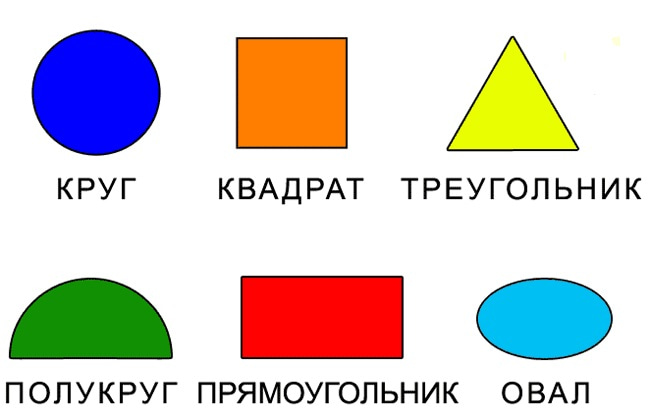
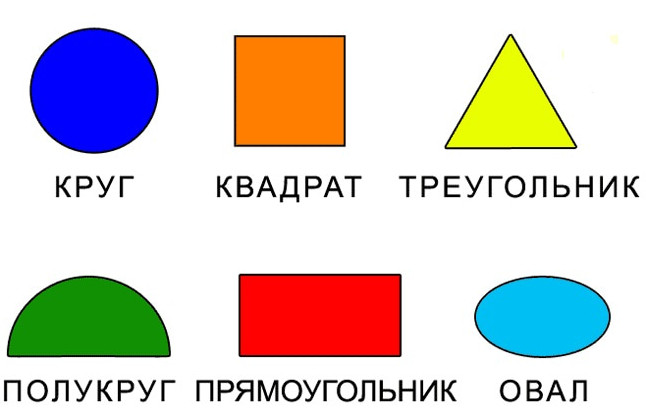
area commi

diff --git a/lesson4/homework_4/area.html b/lesson4/homework_4/area.html
@@ -20,7 +20,38 @@
         area href="URL"<br>
       /map</p>
     <p>Пример</p>
-    <img src="figures.jpg" width="650px" height="418px" alt="фигуры" title="фигуры">
-    <p></p>
+    <img src="figures.jpg" width="650px" height="418px" alt="фигуры" title="фигуры" usemap="#figures">
+        <map name="figures">
+    <!--Задаёт значения координат для активной области. Значение и количество значений зависят от значения указанного для атрибута shape.
+    Для rect или прямоугольника задаются две пары значений x,y coords: лево, верх, право и низ. 
+    Для circle, значения x,y,r где x,y координаты центра круга, а r радиус. 
+    Для poly или многоугольника, значения задаются парой x и y для каждой вершины многоугольника: x1,y1,x2,y2,x3,y3, и т.д. 
+    В HTML4 значения задаются в пикселях или процентах, когда добавлен знак (%); в HTML5, значения — величины в пикселях.-->
+        <area shape="circle"
+            coords="95,87,64"
+            href="https://ru.wiktionary.org/wiki/%D0%BA%D1%80%D1%83%D0%B3" 
+            title="круг" 
+            target="_blank">
+        <area shape="rect"
+            coords="233,36,344,144"
+            href="https://ru.wiktionary.org/wiki/%D0%BA%D1%80%D1%83%D0%B3"
+            title="квадрат"
+            target="_blank">
+        <area shape="poly"
+            coords="444,146,510,35,576,145"
+            href="https://ru.wiktionary.org/wiki/%D0%BA%D1%80%D1%83%D0%B3"
+            title="треугольник"
+            target="_blank">
+        <area shape="rect"
+            coords="239,275,400,355"
+            href="https://ru.wiktionary.org/wiki/%D0%BA%D1%80%D1%83%D0%B3"
+            title="прямоугольник"
+            target="_blank">
+        <!--<area shape="default"
+            coords="475,315,540,277,609,315,540,356"
+            href="https://ru.wiktionary.org/wiki/%D0%BA%D1%80%D1%83%D0%B3"
+            title="овал"
+            target="_blank">-->
+        </map>
 </body>
 </html>
